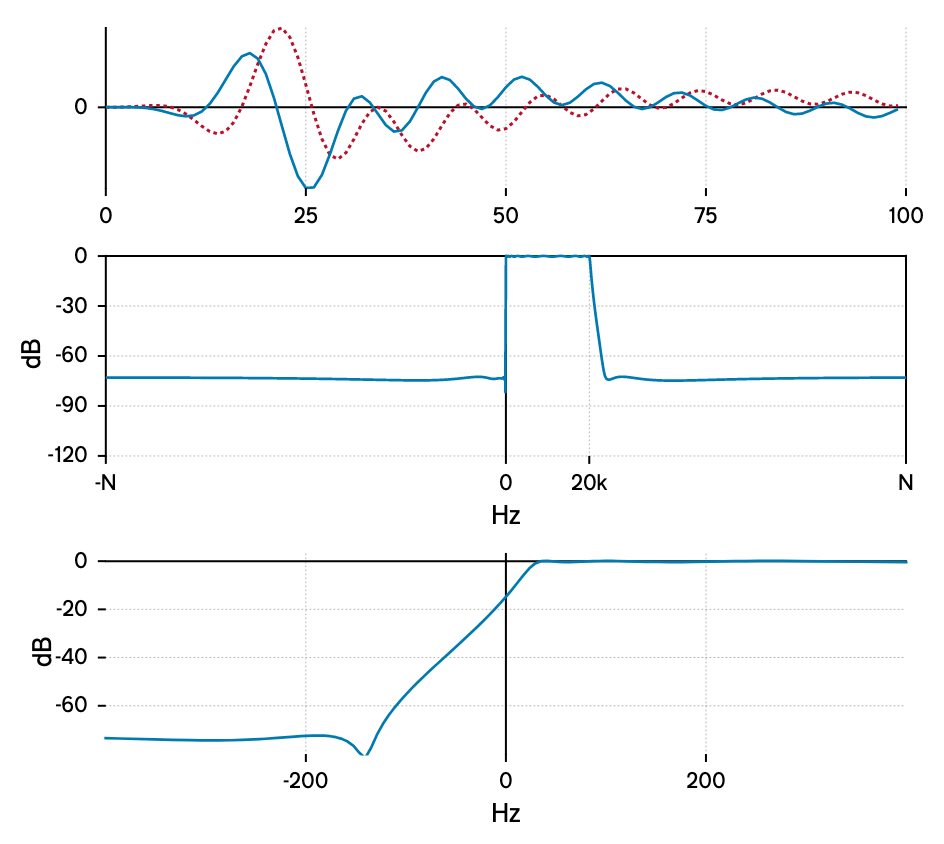
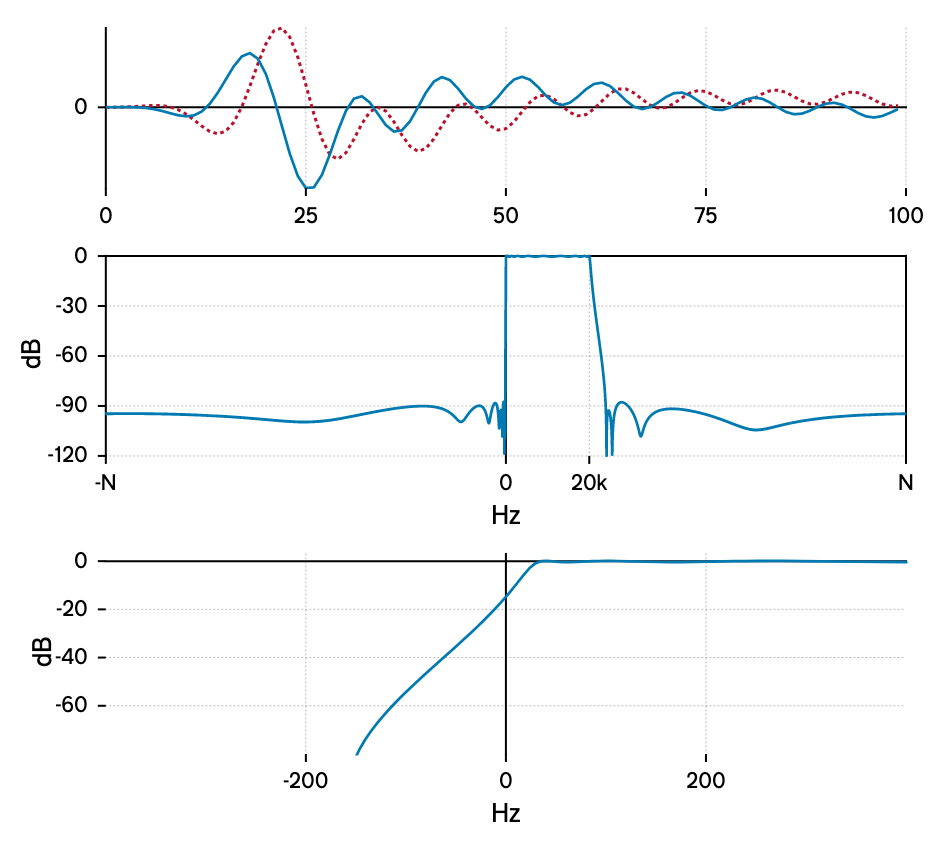
Scale direct part of filter correctly

diff --git a/hilbert.h b/hilbert.h
@@ -49,9 +49,9 @@ struct HilbertIIR {
 	
 	HilbertIIR(Sample sampleRate=48000, int channels=1) {
 		HilbertIIRCoeffs<Sample> coeffs;
-		direct = coeffs.direct;
 		
 		Sample freqFactor = std::min<Sample>(0.46, 20000/sampleRate);
+		direct = coeffs.direct*2*freqFactor;
 		for (int i = 0; i < order; ++i) {
 			Complex coeff = coeffs.coeffs[i]*freqFactor;
 			coeffsR[i] = coeff.real();
